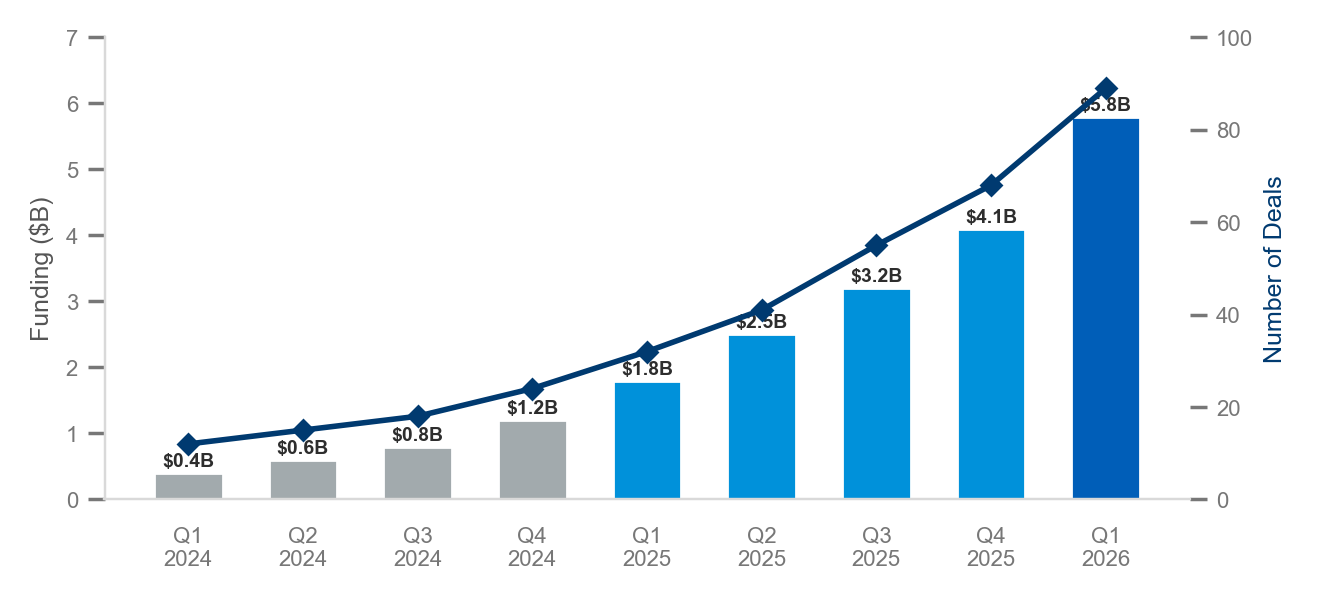
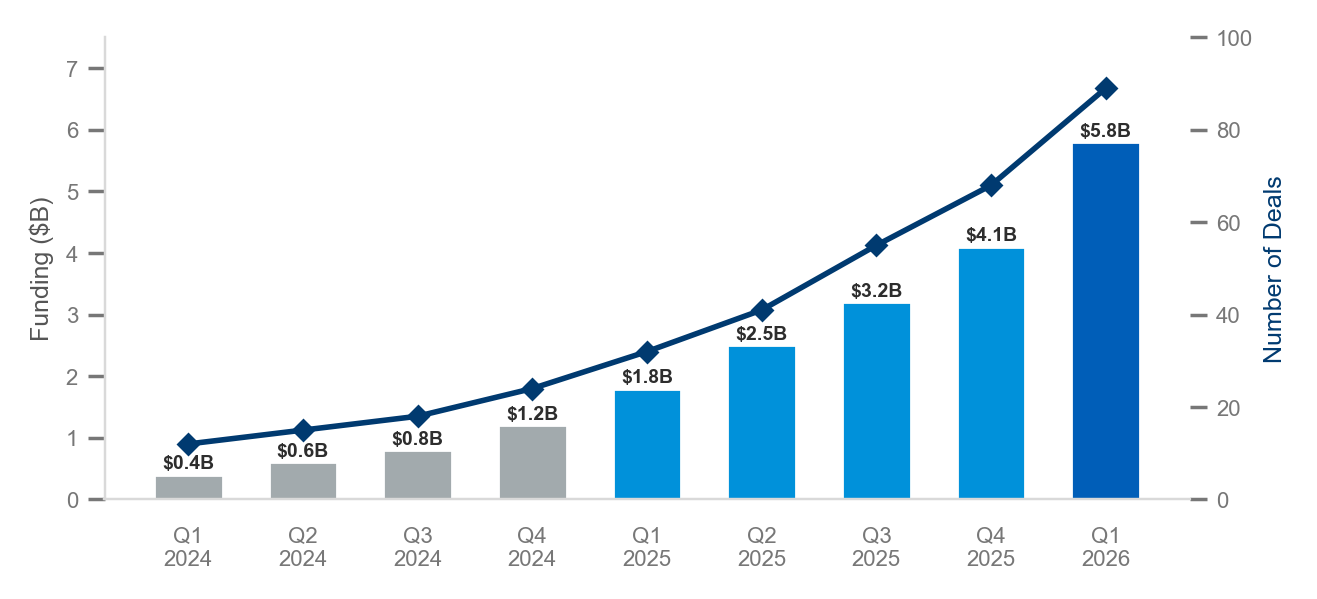
Fix empty pages and chart text overlaps
- Made chart/table exhibits breakable to prevent empty page gaps
- Removed H2 pagebreak (section dividers handle it)
- Fixed risk heatmap label positions with custom offsets
- Fixed funding chart y-axis headroom
- Report reduced from 51 → 48 pages (3 empty pages eliminated)

diff --git a/reports/generate_charts.py b/reports/generate_charts.py
@@ -387,7 +387,7 @@ deals = [12, 15, 18, 24, 32, 41, 55, 68, 89]
 
 bars = ax.bar(quarters, funding, color=[NEUTRAL_GRAY]*4 + [ACCENT]*4 + [BRAND_PRIMARY], width=0.6)
 ax.set_ylabel('Funding ($B)')
-ax.set_ylim(0, 7)
+ax.set_ylim(0, 7.5)
 
 ax2 = ax.twinx()
 ax2.plot(quarters, deals, color=HEADING_COLOR, linewidth=2, marker='D', markersize=5, label='Deal Count')
